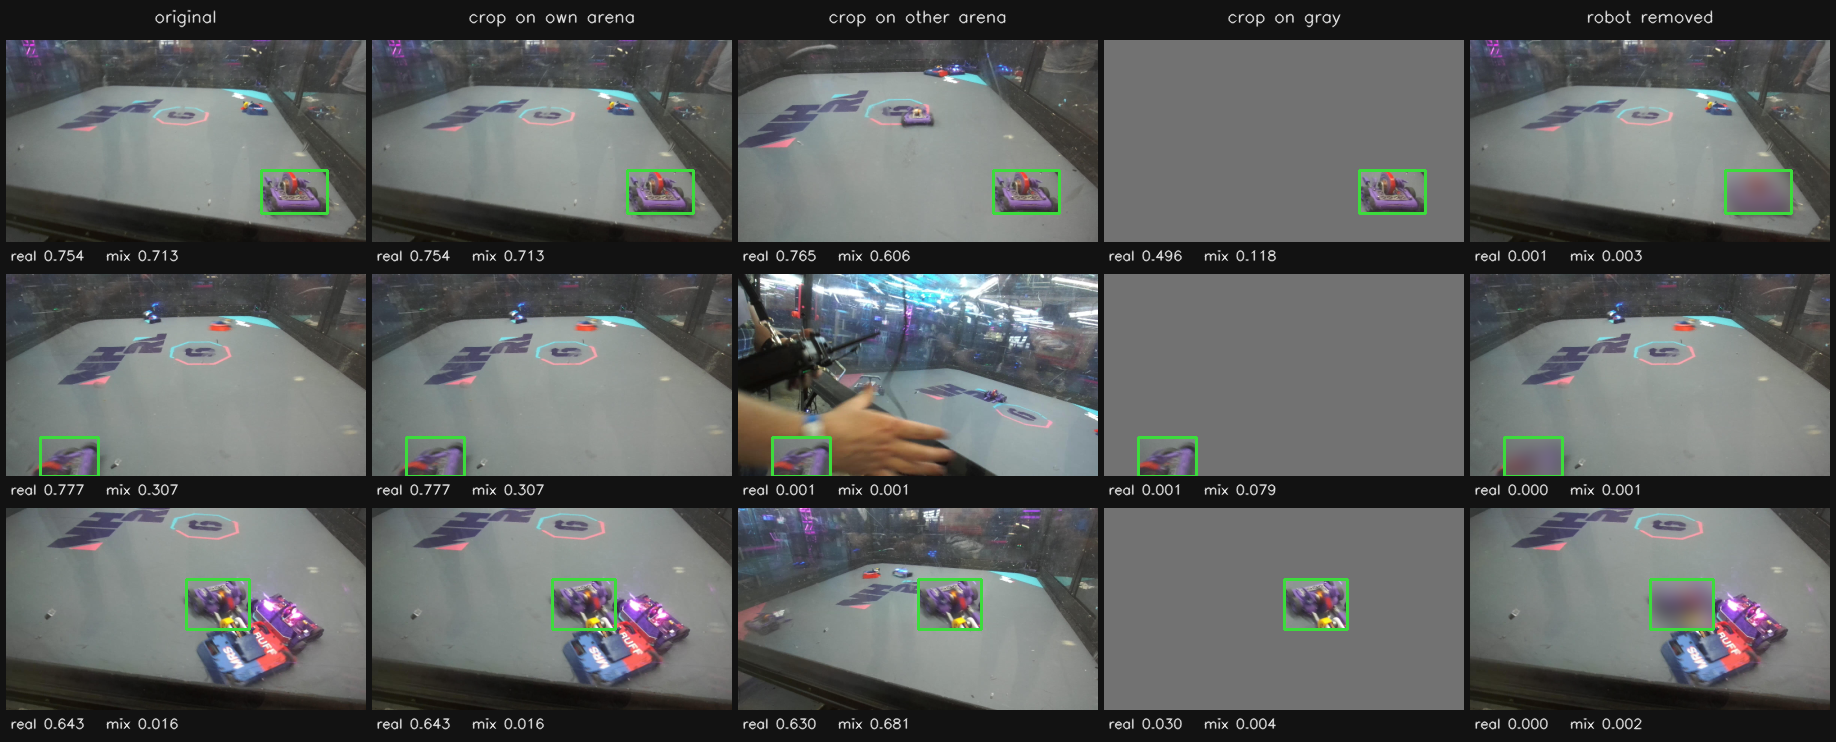
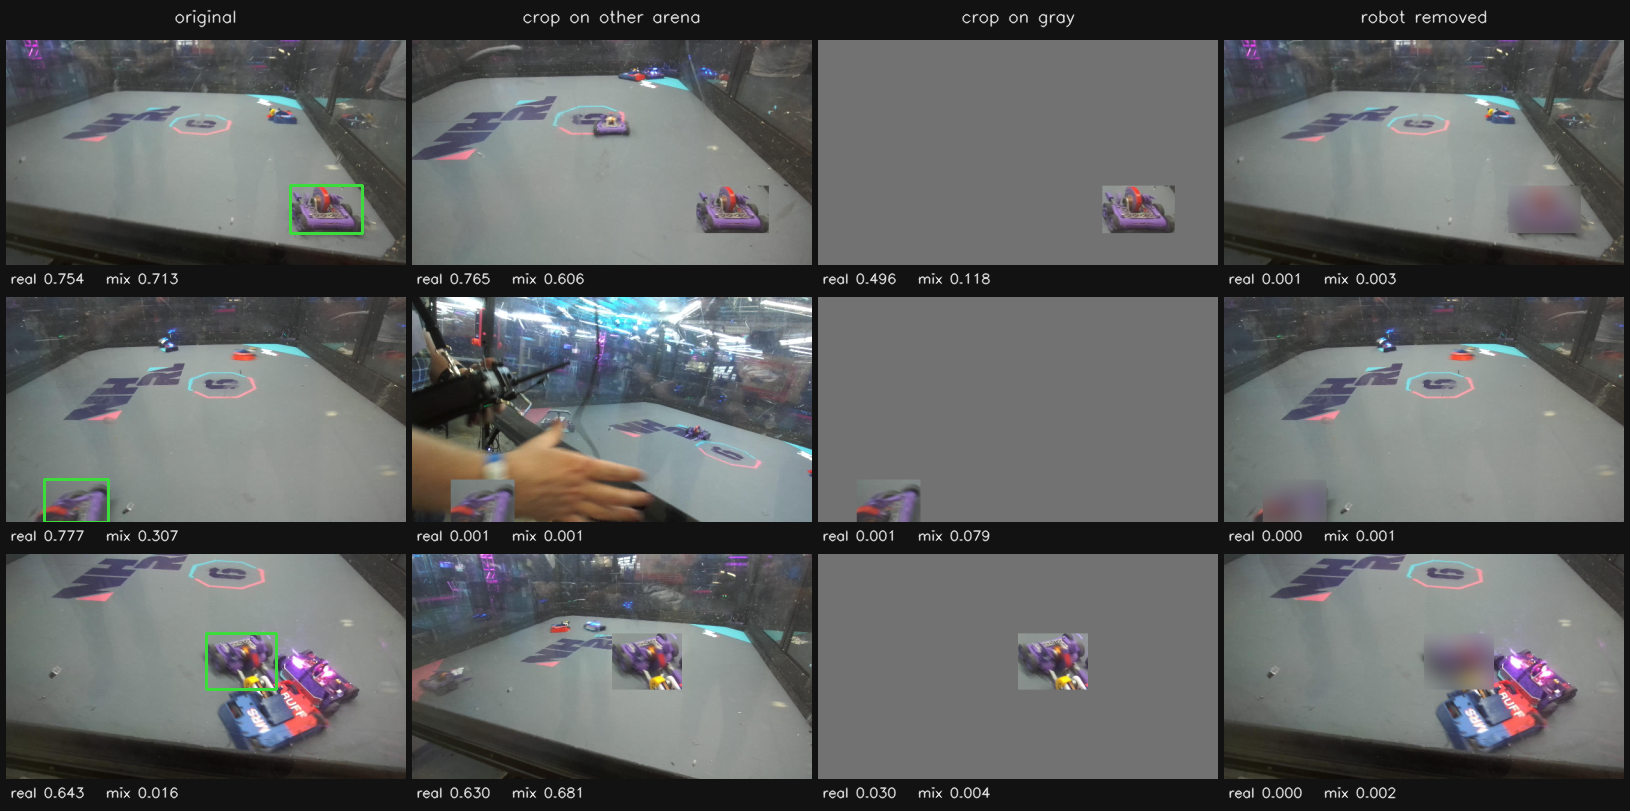
new mosaic

diff --git a/training/model_eval/make_cutpaste_mosaic.py b/training/model_eval/make_cutpaste_mosaic.py
@@ -7,22 +7,20 @@ sample frame, one column per condition, each tile captioned with the opponent sc
 both models give the same target box (max opponent-class probability among head
 anchors inside it) - the exact quantity the probe averages.
 
-Conditions, in the order the report's table lists them, plus one diagnostic column:
+Conditions, in the order the report's table lists them:
 
   original            the letterboxed eval frame
-  crop on own arena   the probe's `crop_on_arena`: the crop pasted back at its own
-                      coordinates on its own frame, so the image is bit-identical to
-                      the original (see NOTE below)
-  crop on other arena the context swap that column is meant to be: same crop, same
-                      coordinates, a *different* eval frame's arena underneath
+  crop on other arena the context swap: same crop, same coordinates, a *different*
+                      eval frame's arena underneath (see NOTE below)
   crop on gray        `crop_on_gray`: same crop on a neutral 114 canvas (appearance only)
   robot removed       `robot_removed`: box contents replaced by a blur of the frame
 
-NOTE: `crop_on_arena` in the probe indexes its background list with the frame's own
-index (`backgrounds[fi % len(backgrounds)]` where `backgrounds` is the same frame
-list), so it reconstructs the original image rather than swapping context. Its
-reported equality with `original` is therefore an identity, not a finding. The
-"crop on other arena" column here runs the intended swap for comparison.
+NOTE: the probe's own `crop_on_arena` condition is not shown, because it does not
+swap context. It indexes its background list with the frame's own index
+(`backgrounds[fi % len(backgrounds)]` where `backgrounds` is the same frame list), so
+the crop is pasted back at its own coordinates on its own frame and the result is
+bit-identical to the original — its reported equality with `original` is an identity,
+not a finding. "crop on other arena" here is the swap that condition was meant to be.
 
 Usage:
     PYTHONPATH=. venv/bin/python training/model_eval/make_cutpaste_mosaic.py \
@@ -42,7 +40,7 @@ import numpy as np
 import torch
 from interpret_context_vs_appearance import IMGSZ, Model, load_eval
 
-TILE_W = 360
+TILE_W = 400
 PAD = 6
 HEADER_H = 34
 CAPTION_H = 26
@@ -50,19 +48,13 @@ MIN_INDEX_GAP = 2  # frames are ordered by recording then timestamp; skip near-n
 FONT = cv2.FONT_HERSHEY_SIMPLEX
 BOX_COLOR = (60, 220, 60)  # BGR: target box the score is read from
 
-CONDITIONS = (
-    "original",
-    "crop on own arena",
-    "crop on other arena",
-    "crop on gray",
-    "robot removed",
-)
+CONDITIONS = ("original", "crop on other arena", "crop on gray", "robot removed")
 
 
 def build_conditions(
     frames: list[dict], index: int, other_index: int
 ) -> tuple[dict[str, np.ndarray], list[float]] | None:
-    """The five condition images for one frame, built exactly as the probe builds them."""
+    """The condition images for one frame, built exactly as the probe builds them."""
     img, box = frames[index]["img"], frames[index]["boxes"][0]
     x0, y0, x1, y1 = (int(round(v)) for v in box)
     x0, y0 = max(0, x0), max(0, y0)
@@ -70,9 +62,6 @@ def build_conditions(
     if x1 - x0 < 6 or y1 - y0 < 6:
         return None
     crop = img[y0:y1, x0:x1]
-
-    own = img.copy()
-    own[y0:y1, x0:x1] = crop  # the probe's crop_on_arena: a no-op paste
 
     other = frames[other_index]["img"].copy()
     other[y0:y1, x0:x1] = crop
@@ -83,7 +72,7 @@ def build_conditions(
     removed = img.copy()
     removed[y0:y1, x0:x1] = cv2.GaussianBlur(img, (0, 0), 15)[y0:y1, x0:x1]
 
-    images = dict(zip(CONDITIONS, (img, own, other, gray, removed)))
+    images = dict(zip(CONDITIONS, (img, other, gray, removed)))
     return images, [float(x0), float(y0), float(x1), float(y1)]
 
 
@@ -115,22 +104,32 @@ def content_band(image_rgb: np.ndarray) -> tuple[int, int]:
 
 
 def draw_tile(
-    image_rgb: np.ndarray, box: list[float], band: tuple[int, int], tile_h: int, caption: str
+    image_rgb: np.ndarray,
+    box: list[float],
+    band: tuple[int, int],
+    tile_h: int,
+    caption: str,
+    outline: bool,
 ) -> np.ndarray:
-    """One condition tile: letterbox bars cropped away, target box outlined, score below."""
+    """One condition tile: letterbox bars cropped away, score below.
+
+    Only the `original` tile outlines the target box — the box is the same in every
+    condition of a row, so repeating it just covers the pasted pixels being compared.
+    """
     top, bottom = band
     cropped = image_rgb[top:bottom]
     tile = cv2.cvtColor(
         cv2.resize(cropped, (TILE_W, tile_h), interpolation=cv2.INTER_AREA), cv2.COLOR_RGB2BGR
     )
-    sx, sy = TILE_W / IMGSZ, tile_h / (bottom - top)
-    cv2.rectangle(
-        tile,
-        (int(box[0] * sx), int((box[1] - top) * sy)),
-        (int(box[2] * sx), int((box[3] - top) * sy)),
-        BOX_COLOR,
-        2,
-    )
+    if outline:
+        sx, sy = TILE_W / IMGSZ, tile_h / (bottom - top)
+        cv2.rectangle(
+            tile,
+            (int(box[0] * sx), int((box[1] - top) * sy)),
+            (int(box[2] * sx), int((box[3] - top) * sy)),
+            BOX_COLOR,
+            2,
+        )
     panel = np.full((tile_h + CAPTION_H, TILE_W, 3), 18, np.uint8)
     panel[:tile_h] = tile
     cv2.putText(panel, caption, (4, tile_h + 18), FONT, 0.45, (235, 235, 235), 1, cv2.LINE_AA)
@@ -161,7 +160,8 @@ def build_mosaic(
         band = content_band(frames[index]["img"])
         for c, name in enumerate(CONDITIONS):
             real, mix = scores[(index, name)]
-            panel = draw_tile(images[name], box, band, tile_h, f"real {real:.3f}   mix {mix:.3f}")
+            caption = f"real {real:.3f}   mix {mix:.3f}"
+            panel = draw_tile(images[name], box, band, tile_h, caption, name == CONDITIONS[0])
             y = HEADER_H + PAD + r * (cell_h + PAD)
             x = PAD + c * (TILE_W + PAD)
             canvas[y : y + cell_h, x : x + TILE_W] = panel
